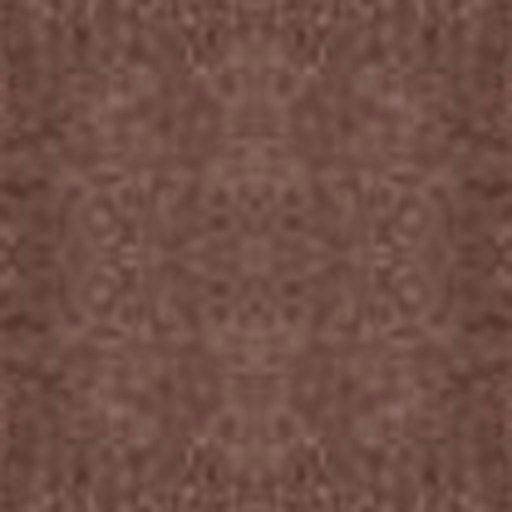
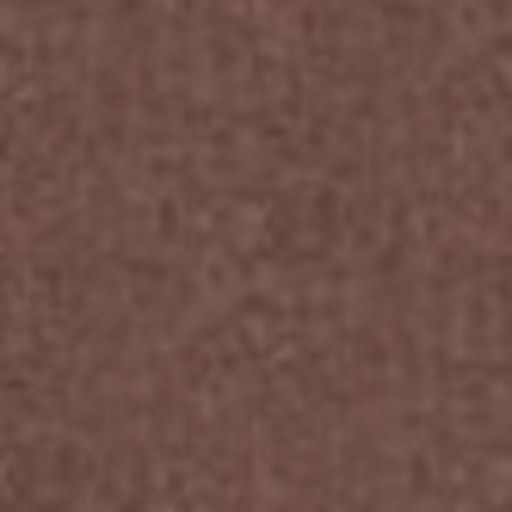
Photo garments: seamless calm fabric tile, versioned asset URLs (no stale cache)
Claude-Session: https://claude.ai/code/session_012Syce9ZjtguHZsMptGeyn2

diff --git a/js/app.js b/js/app.js
@@ -1,8 +1,8 @@
 import * as THREE from 'three';
 import { RoomEnvironment } from 'three/addons/environments/RoomEnvironment.js';
-import { ITEMS, SIZES, CREDITS, SIZE_SCALE, loadCatalog } from './catalog.js?v=1794140617';
-import { makeGarment, loadModel, texturesReady } from './garment.js?v=1794140617';
-import { initShop } from './shop.js?v=1794140617';
+import { ITEMS, SIZES, CREDITS, SIZE_SCALE, loadCatalog } from './catalog.js?v=1794140928';
+import { makeGarment, loadModel, texturesReady } from './garment.js?v=1794140928';
+import { initShop } from './shop.js?v=1794140928';
 await loadCatalog();
 
 const $ = (s) => document.querySelector(s);
@@ -369,7 +369,7 @@ $('#creditList').innerHTML = CREDITS.map(([t, a, u]) => `<li><a href="${u}" targ
 // ---------- try-on ----------
 let tryon = null;
 async function openTryOn(item) {
-  const mod = await import('./tryon.js?v=1794140617');
+  const mod = await import('./tryon.js?v=1794140928');
   if (!tryon) tryon = new mod.TryOn({ items: ITEMS, onAdd: (it, sz) => addToBag(it, sz || size), getSize: () => size, setSize: (s) => { size = s; if (selected != null) fillProduct(slots[selected].item); } });
   running = false;
   await tryon.open(item);

diff --git a/index.html b/index.html
@@ -10,7 +10,7 @@
 <link rel="preconnect" href="https://fonts.googleapis.com">
 <link rel="preconnect" href="https://fonts.gstatic.com" crossorigin>
 <link href="https://fonts.googleapis.com/css2?family=Cormorant+Garamond:ital,wght@0,300;0,400;0,500;1,300;1,400&family=Jost:wght@300;400;500&display=swap" rel="stylesheet">
-<link rel="stylesheet" href="style.css?v=1794140617">
+<link rel="stylesheet" href="style.css?v=1794140928">
 <script type="importmap">
 { "imports": { "three": "./lib/three/three.module.min.js", "three/addons/": "./lib/three/addons/" } }
 </script>
@@ -188,6 +188,6 @@
 <div id="credits" class="credits"><button class="close" data-act="closeCredits" aria-label="Close">×</button><p class="eyebrow">Garment models — CC BY 4.0</p><ul id="creditList"></ul><p class="p-note">Recoloured, refitted and rigged for Maison Lin.</p></div>
 <div id="toast" class="toast"></div>
 
-<script type="module" src="js/app.js?v=1794140617"></script>
+<script type="module" src="js/app.js?v=1794140928"></script>
 </body>
 </html>

diff --git a/js/garment.js b/js/garment.js
@@ -1,7 +1,7 @@
 import * as THREE from 'three';
 import { GLTFLoader } from 'three/addons/loaders/GLTFLoader.js';
 import * as SkeletonUtils from 'three/addons/utils/SkeletonUtils.js';
-import { FABRICS, MODELS } from './catalog.js?v=1794140617';
+import { FABRICS, MODELS } from './catalog.js?v=1794140928';
 
 const loader = new GLTFLoader();
 const texLoader = new THREE.TextureLoader();
@@ -103,7 +103,7 @@ function fabricMaterial(item, orig) {
       sh.fragmentShader = 'uniform sampler2D fabricTex; varying float vFacing;\n' + sh.fragmentShader.replace('#include <map_fragment>', `
         #ifdef USE_MAP
           vec4 ph = texture2D( map, vMapUv );
-          vec3 fb = texture2D( fabricTex, vUv * 4.0 ).rgb;
+          vec3 fb = texture2D( fabricTex, vUv * 2.6 ).rgb;
           float fw = smoothstep( 0.2, 0.62, vFacing );
           diffuseColor.rgb *= mix( fb, ph.rgb, fw );
         #endif`);

diff --git a/js/shop.js b/js/shop.js
@@ -1,6 +1,6 @@
 // Store layer: shop grid, filters, search, wishlist, menu, size guide.
 // The 3D rail stays the heart of the site: every card opens its piece on the rail.
-import { CATEGORIES, SIZE_GUIDE } from './catalog.js?v=1794140617';
+import { CATEGORIES, SIZE_GUIDE } from './catalog.js?v=1794140928';
 
 const $ = (s) => document.querySelector(s);
 const esc = (t) => String(t).replace(/[&<>"]/g, (c) => ({ '&': '&amp;', '<': '&lt;', '>': '&gt;', '"': '&quot;' }[c]));

diff --git a/js/tryon.js b/js/tryon.js
@@ -1,7 +1,7 @@
 import * as THREE from 'three';
 import { RoomEnvironment } from 'three/addons/environments/RoomEnvironment.js';
-import { SIZES, SIZE_SCALE } from './catalog.js?v=1794140617';
-import { makeGarment, HIPS_Y } from './garment.js?v=1794140617';
+import { SIZES, SIZE_SCALE } from './catalog.js?v=1794140928';
+import { makeGarment, HIPS_Y } from './garment.js?v=1794140928';
 
 const $ = (s) => document.querySelector(s);
 const MP = './lib/mediapipe/';

diff --git a/tools/add_garment.py b/tools/add_garment.py
@@ -182,7 +182,7 @@ def fabric_tile(rgb, m, meas, size=512):
     core = ndimage.binary_erosion(m, iterations=12)
     lum = rgb @ np.array([0.299, 0.587, 0.114])
     g = np.hypot(ndimage.sobel(lum, 0), ndimage.sobel(lum, 1))
-    side = int(max(24, meas['half'] * 0.35))
+    side = int(max(32, meas['half'] * 0.55))
     best, bxy = None, None
     for y in range(int(meas['top'] + 0.15 * (meas['hem'] - meas['top'])), int(meas['hem'] - side), max(4, side // 4)):
         for x in range(int(meas['cx'] - meas['half']), int(meas['cx'] + meas['half'] - side), max(4, side // 4)):
@@ -194,7 +194,14 @@ def fabric_tile(rgb, m, meas, size=512):
         col = np.median(rgb[m], 0); p = np.ones((side, side, 3)) * col
     else:
         x, y = bxy; p = rgb[y:y + side, x:x + side]
-    t = np.concatenate([np.concatenate([p, p[:, ::-1]], 1), np.concatenate([p[::-1], p[::-1, ::-1]], 1)], 0)
+    # seamless without mirroring (mirrors read as a kaleidoscope): cross-fade with itself shifted by half
+    n = p.shape[0]; p = p[:n, :n]
+    r = np.roll(np.roll(p, n // 2, 0), n // 2, 1)
+    yy, xx = np.mgrid[0:n, 0:n] + 0.5
+    w = (np.sin(np.pi * xx / n) * np.sin(np.pi * yy / n))[..., None] ** 0.7
+    t = w * p + (1 - w) * r
+    mean = t.reshape(-1, 3).mean(0)
+    t = mean + (t - mean) * 0.7  # calmer, so the repeat does not show
     return Image.fromarray(np.clip(t, 0, 255).astype(np.uint8)).resize((size, size), Image.LANCZOS)
 
 
@@ -442,6 +449,7 @@ def main():
     write_glb(os.path.join(OUT, f'{gid}.glb'), js, new_arrays)
 
     # product entry
+    import time; ver = int(time.time())
     fm = sides['front']['m']; col = np.median(sides['front']['rgb'][fm], 0)
     hexc = '#%02X%02X%02X' % tuple(int(c) for c in col)
     d = DEFAULTS[a.type]
@@ -450,7 +458,7 @@ def main():
     items = [i for i in items if i['id'] != gid]
     items.append(dict(id=gid, base=a.type, name=a.name, color=a.color or 'Custom', hex=hexc, price=a.price,
                       fabric=d['fabric'], line=f"{d['line']} — Atelier", desc=a.desc or d['desc'], details=d['details'],
-                      glb=f'assets/custom/{gid}.glb', texture=f'assets/custom/{gid}.jpg', fabricTex=f'assets/custom/{gid}_fabric.jpg', category=a.type.split('-')[0]))
+                      glb=f'assets/custom/{gid}.glb?v={ver}', texture=f'assets/custom/{gid}.jpg?v={ver}', fabricTex=f'assets/custom/{gid}_fabric.jpg?v={ver}', category=a.type.split('-')[0]))
     json.dump(items, open(pj, 'w'), indent=1, ensure_ascii=False)
     print(f'✓ added {gid}: {a.name} — {a.color} €{a.price}  colour {hexc}')
     print(f'  {len(items)} custom piece(s) in assets/custom/products.json')
